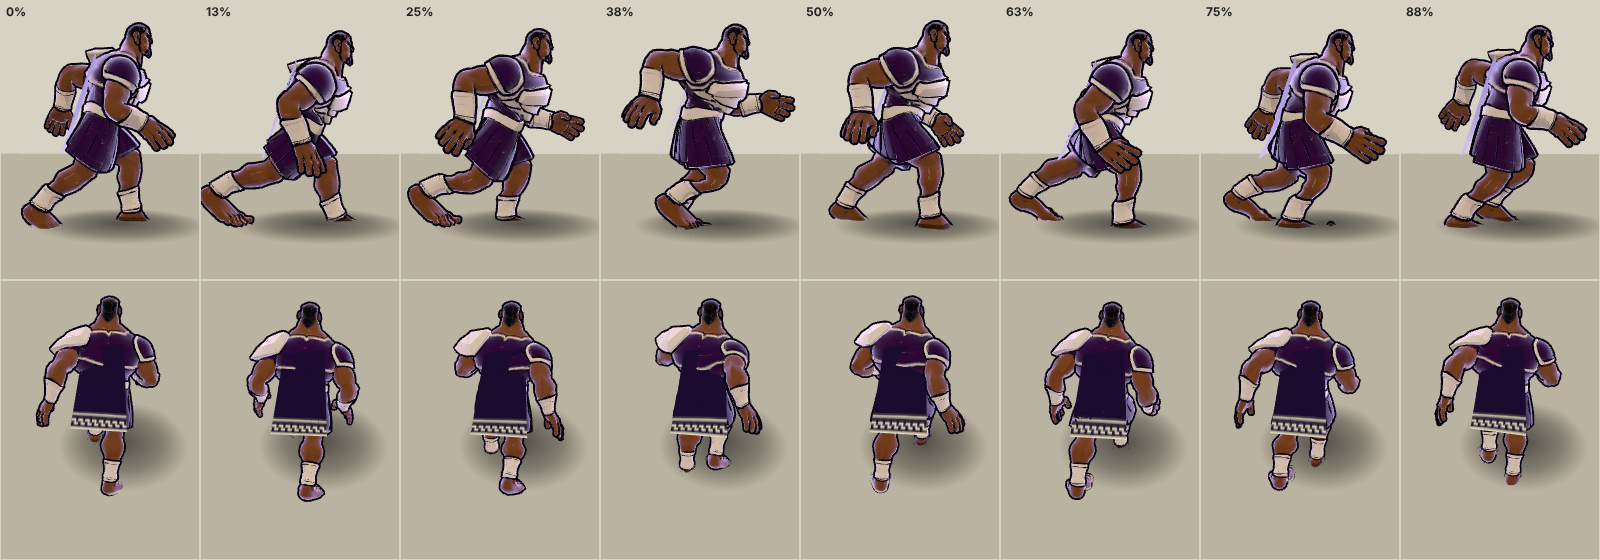
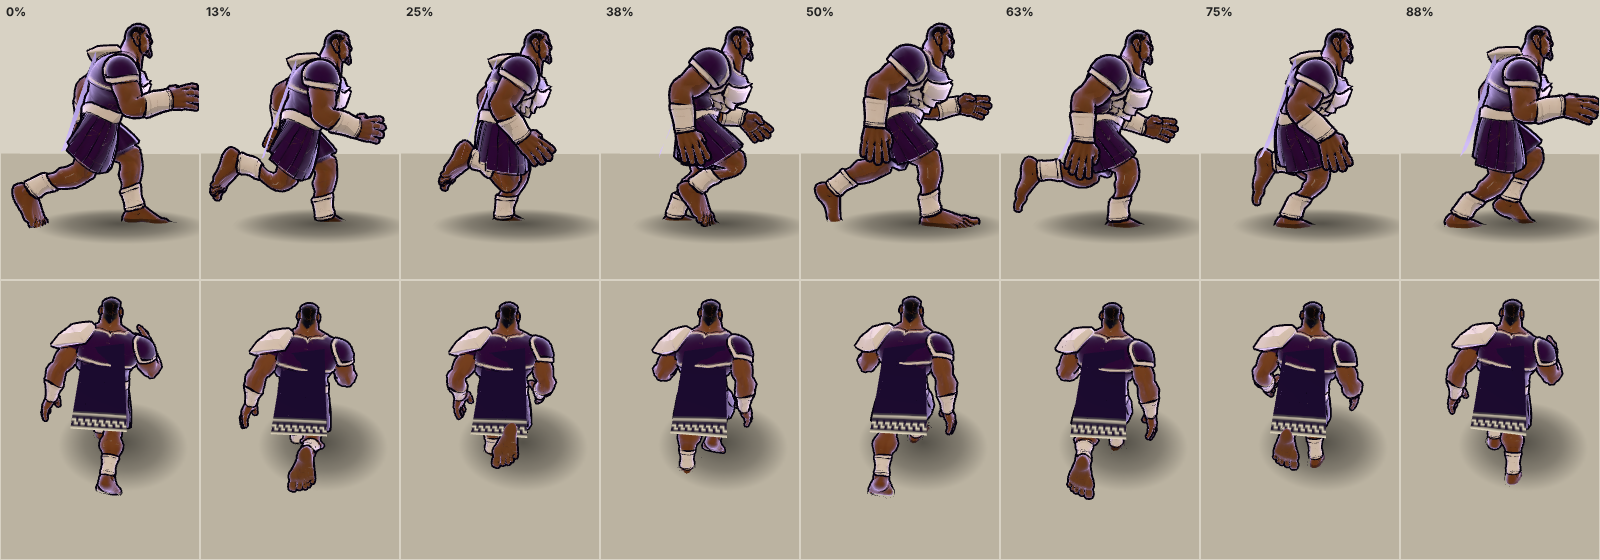
Authored run animations per gear (Meshy catalog), feet locked to the gait
Jog plays Run 2, Stride the Lean Forward Sprint, Rampage the Male Head-down
Charge (12 credits). Whole body on the tier's clip, crossfaded on tier
changes and time-locked to the stride; hips at the gait's height; legs IK
onto the gait's plant spot while planted (clip foot arc in swing), so feet
never slide. Replaces the hybrid. Clip comparison tool.

Claude-Session: https://claude.ai/code/session_01U6CEtzBnsd5sKqjjyRSivB

diff --git a/src/render/giantModel.ts b/src/render/giantModel.ts
@@ -4,16 +4,17 @@ import type { GaitFrame, Vec3 } from '../anim/gait';
 import { TUNING } from '../tuning';
 import { PALETTE } from './palette';
 import { rimToonMap } from './toon';
-import runClip from '../assets/giant/run.json';
+import runClips from '../assets/giant/runs.json';
 
 /**
  * The Meshy giant (Mike's character sheet → image edit without the cape → image-to-3D →
  * rigging). A presentation skin over the greybox rig: GiantView still computes every pose
- * (gait IK legs, lean, twist, flex, steady head); the skinned legs and hips follow it, so feel
- * and the pinned feet are untouched. The upper body (spine sway, shoulders, arm pump) plays
- * Meshy's run clip, time-locked to the stride so the arms always swing against the legs, with
- * the tier's lean and arm amplitude on top. The Pose, the Shoulder Check and Leap take the arms
- * back to the procedural pose. Until (or unless) it loads, the greybox shows.
+ * (gait IK, hip height and bound, steady head, flex); the model plays an authored Meshy run clip
+ * per tier (Jog "Run 2", Stride "Lean Forward Sprint", Rampage "Male Head-down Charge"),
+ * crossfaded on tier changes and time-locked to the stride. Feet: while the gait has a foot
+ * planted, that leg blends into IK onto the gait's plant spot, so nothing slides; in swing the
+ * clip's foot arc leads. The Pose, the Shoulder Check and Leap take the arms back to the
+ * procedural pose. Until (or unless) it loads, the greybox shows.
  */
 
 /** What the greybox pose gives this frame (world space). */
@@ -33,6 +34,8 @@ export interface GreyboxPose {
   /** The greybox torso's forward lean and bank (rad), without its stride twist (the clip has its own sway). */
   lean: number;
   bank: number;
+  /** Frame time (s), for the crossfades and plant blends. */
+  dt: number;
   /** Pose, Shoulder Check or Leap: arms follow the procedural pose instead of the clip. */
   armsProcedural: boolean;
 }
@@ -63,9 +66,10 @@ export class GiantModel {
   private readonly face = new THREE.Quaternion().setFromAxisAngle(new THREE.Vector3(0, 1, 0), Math.PI / 2);
   private q = [new THREE.Quaternion(), new THREE.Quaternion(), new THREE.Quaternion(), new THREE.Quaternion()];
   private mixer: THREE.AnimationMixer | null = null;
-  private clipLen = 1;
-  /** Clip time at which its left foot is down; stride phase at the gait's left plant. */
-  private clipLeftPlant = 0;
+  /** One run clip per tier: its action, length, and the clip time at which its left foot is down. */
+  private runs: { action: THREE.AnimationAction; len: number; leftPlant: number; weight: number }[] = [];
+  /** Per model leg (Left, Right): how far the leg is blended onto the gait's planted foot. */
+  private plantW = [0, 0];
   private gaitLeftPhase = 0;
   private leftWasPlanted = false;
   private armBlend = 0;
@@ -132,20 +136,29 @@ export class GiantModel {
     const mid = wp(b('LeftUpLeg')).add(wp(b('RightUpLeg'))).multiplyScalar(0.5);
     this.hipsOffset.copy(wp(b('Hips'))).sub(mid);
 
-    // Meshy's run clip (rotations only): find the moment its left foot is lowest, to lock it to the gait.
-    const clip = THREE.AnimationClip.parse(runClip as unknown as THREE.AnimationClipJSON);
+    // Authored run clips (rotations only), one per tier: find each one's left plant (lowest left foot)
+    // so it can be locked to the gait.
     this.mixer = new THREE.AnimationMixer(scene);
-    this.mixer.clipAction(clip).play();
-    this.clipLen = clip.duration;
-    let low = Infinity;
-    for (let i = 0; i < 48; i++) {
-      const t = (clip.duration * i) / 48;
-      this.mixer.setTime(t);
-      scene.updateMatrixWorld(true);
-      const y = wp(b('LeftFoot')).y;
-      if (y < low) {
-        low = y;
-        this.clipLeftPlant = t;
+    const clipJson = runClips as unknown as Record<string, THREE.AnimationClipJSON>;
+    for (const key of ['jog', 'stride', 'rampage']) {
+      const clip = THREE.AnimationClip.parse(clipJson[key]);
+      const action = this.mixer.clipAction(clip);
+      action.play();
+      this.runs.push({ action, len: clip.duration, leftPlant: 0, weight: 0 });
+    }
+    for (const run of this.runs) {
+      for (const r of this.runs) r.action.setEffectiveWeight(r === run ? 1 : 0);
+      let low = Infinity;
+      for (let i = 0; i < 48; i++) {
+        const t = (run.len * i) / 48;
+        run.action.time = t;
+        this.mixer.update(0);
+        scene.updateMatrixWorld(true);
+        const y = wp(b('LeftFoot')).y;
+        if (y < low) {
+          low = y;
+          run.leftPlant = t;
+        }
       }
     }
     for (const [bone, r] of this.rest) bone.quaternion.copy(r.local);
@@ -202,18 +215,10 @@ export class GiantModel {
     this.setWorld(bone, delta.multiply(restWorld));
   }
 
-  /** Greybox pose relative to the root, applied to a bone's rest world rotation. */
-  private follow(bone: THREE.Bone, obj: THREE.Object3D, rootInv: THREE.Quaternion, rootQ: THREE.Quaternion, amount = 1) {
-    const rel = obj.getWorldQuaternion(new THREE.Quaternion()).premultiply(rootInv);
-    if (amount < 1) rel.slerp(new THREE.Quaternion(), 1 - amount);
-    this.setWorld(bone, rel.premultiply(rootQ).multiply(this.rest.get(bone)!.world));
-  }
-
   update(g: GreyboxPose) {
     if (!this.loaded) return;
     const b = (n: string) => this.bones.get(n)!;
     const rootQ = g.root.getWorldQuaternion(new THREE.Quaternion());
-    const rootInv = rootQ.clone().invert();
     const right = new THREE.Vector3(0, 0, 1).applyQuaternion(rootQ);
     this.group.position.copy(g.root.getWorldPosition(new THREE.Vector3()));
     this.group.quaternion.copy(rootQ).multiply(this.face);
@@ -221,70 +226,60 @@ export class GiantModel {
 
     const L = g.gait.legs;
     const M = TUNING.giantModel;
-    // Lock the clip to the stride: the gait's left plant lines up with the clip's.
+    // Lock the clips to the stride: the gait's left plant lines up with each clip's.
     const leftIdx = Math.sign(this.p[1].copy(v(L[0].hip)).sub(this.group.position).dot(right)) < 0 ? 0 : 1;
     const leftPlanted = L[leftIdx].planted;
     if (leftPlanted && !this.leftWasPlanted) this.gaitLeftPhase = ((g.stepPos % 2) + 2) % 2;
     this.leftWasPlanted = leftPlanted;
     const phase = ((((g.stepPos - this.gaitLeftPhase) % 2) + 2) % 2) / 2;
-    this.mixer!.setTime(this.clipLeftPlant + phase * this.clipLen);
+    const fade = Math.min(1, g.dt / M.clipFade);
+    this.runs.forEach((r, i) => {
+      r.weight += ((i === g.tier ? 1 : 0) - r.weight) * fade;
+      r.action.setEffectiveWeight(r.weight);
+      r.action.time = (r.leftPlant + phase * r.len) % r.len;
+    });
+    this.mixer!.update(0);
     this.armBlend += ((g.armsProcedural ? 1 : 0) - this.armBlend) * 0.25;
 
-    // Hips: at the gait's hip midpoint, turned like the greybox pelvis.
+    // Hips: at the gait's hip height (bound, plant drop), turned by the clip, banked into lane changes.
     const mid = v(L[0].hip).add(v(L[1].hip, this.p[0])).multiplyScalar(0.5);
-    const hipsRel = g.hips.getWorldQuaternion(new THREE.Quaternion()).premultiply(rootInv);
-    const hips = b('Hips');
-    // The clip's own pelvis motion (relative to rest), kept on top of the greybox pelvis: the clip's
-    // spine is authored against it, so dropping it makes the torso rock.
-    const clipHips = this.rest.get(hips)!.local.clone().invert().multiply(hips.quaternion);
     mid.y += M.hipRaise;
-    hips.position.copy(hips.parent!.worldToLocal(mid.clone().add(this.hipsOffset.clone().applyQuaternion(rootQ).applyQuaternion(hipsRel))));
-    this.follow(hips, g.hips, rootInv, rootQ);
-    this.setWorld(hips, hips.getWorldQuaternion(new THREE.Quaternion()).multiply(clipHips));
-    // Spine: the clip's sway, plus the greybox torso's lean, bank and twist relative to the pelvis.
-    // The chest holds the run's lean: the clip's chest pitches with every arm swing (and its upper back
-    // sits ~20° more upright than its lower back), which read as him standing up mid-stride. Measure the
-    // chest's forward pitch and rotate the whole upper body (at the lower spine) so it lands on the lean;
-    // the clip keeps its sway, roll and arms. Bank on top.
-    // Meshy names the spine top-down: Spine02 sits on the hips, Spine is the chest (neck and shoulders hang off it).
-    const spine = b('Spine02');
-    const chest = b('Spine');
-    spine.updateMatrixWorld(true);
-    const up = new THREE.Vector3(0, 1, 0).applyQuaternion(chest.getWorldQuaternion(new THREE.Quaternion())).applyQuaternion(rootInv);
-    const chestPitch = Math.atan2(up.x, up.y); // + = leaning forward (+X)
-    const want = g.lean * M.clipLean;
-    const delta = new THREE.Quaternion().setFromEuler(new THREE.Euler(g.bank, 0, -(want - chestPitch), 'XYZ'));
-    this.setWorld(spine, delta.premultiply(rootQ).multiply(rootInv).multiply(spine.getWorldQuaternion(new THREE.Quaternion())));
-    this.follow(b('Head'), g.head, rootInv, rootQ);
-    // Clip arms, swing scaled per tier (smaller at Jog, bigger at Rampage).
-    const amp = M.armAmp[g.tier];
-    for (const c of this.arms) for (const bone of [c.upper, c.lower]) {
-      const r = this.rest.get(bone)!;
-      bone.quaternion.copy(r.local.clone().slerp(bone.quaternion, amp));
-    }
-    b('Spine02').updateMatrixWorld(true);
+    const hips = b('Hips');
+    hips.position.copy(hips.parent!.worldToLocal(mid.clone().add(this.hipsOffset.clone().applyQuaternion(rootQ))));
+    hips.updateMatrixWorld(true);
+    const bank = new THREE.Quaternion().setFromAxisAngle(new THREE.Vector3(1, 0, 0).applyQuaternion(rootQ), g.bank);
+    this.setWorld(hips, hips.getWorldQuaternion(new THREE.Quaternion()).premultiply(bank));
 
-    // Legs: two-bone IK from his own hip to the gait's foot (so planted feet stay exactly where the
-    // gait put them), knee bending forward; foot flat, toes down in swing.
+    // Legs: two-bone IK from his hip to a foot target. Planted (by the gait), the target is the gait's
+    // plant spot and the foot lies flat, so nothing slides; in swing it's the clip's own foot arc.
+    // Knees bend the way the clip bends them.
     const fwd = new THREE.Vector3(1, 0, 0).applyQuaternion(rootQ);
-    for (const c of this.legs) {
+    const plantFade = Math.min(1, g.dt / M.plantBlend);
+    this.legs.forEach((c, li) => {
       const gi = Math.sign(this.p[1].copy(v(L[0].hip)).sub(this.group.position).dot(right)) === c.side ? 0 : 1;
       const leg = L[gi];
+      this.plantW[li] += ((leg.planted ? 1 : 0) - this.plantW[li]) * plantFade;
+      const w = this.plantW[li];
       const hip = c.upper.getWorldPosition(new THREE.Vector3());
-      const foot = v(leg.foot);
+      const clipKnee = c.lower.getWorldPosition(new THREE.Vector3());
+      const clipFoot = c.end.getWorldPosition(new THREE.Vector3());
+      clipFoot.y = Math.max(clipFoot.y, M.ankleHeight);
+      const clipFootQ = c.end.getWorldQuaternion(new THREE.Quaternion());
+      const target = clipFoot.lerp(v(leg.foot).setY(Math.max(leg.foot.y, M.ankleHeight)), w);
       const a = this.segLen.get(c.upper)!, bl = this.segLen.get(c.lower)!;
-      const toFoot = foot.clone().sub(hip);
+      const toFoot = target.clone().sub(hip);
       const d = Math.min(toFoot.length(), (a + bl) * 0.999);
       const u = toFoot.normalize();
       const cosA = (a * a + d * d - bl * bl) / (2 * a * d);
       const sinA = Math.sqrt(Math.max(0, 1 - cosA * cosA));
-      const n = fwd.clone().addScaledVector(u, -fwd.dot(u)).normalize();
+      const pole = clipKnee.sub(hip).lerp(fwd, 0.3);
+      const n = pole.addScaledVector(u, -pole.dot(u)).normalize();
       const knee = hip.clone().addScaledVector(u, a * cosA).addScaledVector(n, a * sinA);
       this.aim(c.upper, knee.clone().sub(hip));
       this.aim(c.lower, hip.addScaledVector(u, d).sub(knee));
-      const pitch = new THREE.Quaternion().setFromAxisAngle(new THREE.Vector3(0, 0, 1), -g.footPitch[gi]);
-      this.setWorld(c.end, pitch.premultiply(rootQ).multiply(this.rest.get(c.end)!.world));
-    }
+      const flat = new THREE.Quaternion().copy(rootQ).multiply(this.rest.get(c.end)!.world);
+      this.setWorld(c.end, clipFootQ.slerp(flat, w));
+    });
     // Pose / Shoulder Check / Leap: arms along the greybox arm (upper arm to the elbow, forearm to the fist).
     if (this.armBlend < 0.02) return;
     for (const c of this.arms) {

diff --git a/tools/modelsheet/clips.ts b/tools/modelsheet/clips.ts
@@ -1,0 +1,46 @@
+/**
+ * Dev only: compare candidate run clips on the giant, eight moments of one cycle each, side view.
+ * /tools/modelsheet/clips.html?f=<glb>,<glb>  (GLBs as served by the dev server, e.g. /meshy_output/...)
+ */
+import * as THREE from 'three';
+import { GLTFLoader } from 'three/examples/jsm/loaders/GLTFLoader.js';
+const files = (new URLSearchParams(location.search).get('f') ?? '').split(',').filter(Boolean);
+const N = 8, W = 1600, rowH = 230, H = rowH * files.length, cw = W / N;
+const renderer = new THREE.WebGLRenderer({ canvas: document.getElementById('c') as HTMLCanvasElement, antialias: true, preserveDrawingBuffer: true });
+renderer.setSize(W, H);
+renderer.setScissorTest(true);
+const labels = document.getElementById('l')!;
+const info: string[] = [];
+for (let r = 0; r < files.length; r++) {
+  const scene = new THREE.Scene();
+  scene.background = new THREE.Color(r % 2 ? 0xd2ccbe : 0xd8d2c4);
+  scene.add(new THREE.HemisphereLight(0xffffff, 0x8a8070, 2));
+  const gltf = await new GLTFLoader().loadAsync(files[r]);
+  const root = gltf.scene;
+  root.rotation.y = Math.PI / 2;
+  scene.add(root);
+  const clip = gltf.animations[0];
+  const mixer = new THREE.AnimationMixer(root);
+  mixer.clipAction(clip).play();
+  const hipsTrack = clip.tracks.find((t) => t.name.startsWith('Hips') && t.name.endsWith('.position'));
+  info.push(`${files[r].split('/').pop()}: ${clip.duration.toFixed(3)}s, hips position track: ${hipsTrack ? 'yes' : 'no'}`);
+  for (let i = 0; i < N; i++) {
+    mixer.setTime((clip.duration * i) / N);
+    root.updateMatrixWorld(true);
+    const hips = root.getObjectByName('Hips')!.getWorldPosition(new THREE.Vector3());
+    const cam = new THREE.PerspectiveCamera(30, cw / rowH, 0.01, 200);
+    cam.position.set(hips.x + 0.3, 1.9, hips.z + 9);
+    cam.lookAt(hips.x, 1.5, hips.z);
+    const px = i * cw, py = H - (r + 1) * rowH;
+    renderer.setViewport(px, py, cw, rowH);
+    renderer.setScissor(px + 1, py + 1, cw - 2, rowH - 2);
+    renderer.render(scene, cam);
+  }
+  const s = document.createElement('span');
+  s.style.left = '6px';
+  s.style.top = `${r * rowH + 4}px`;
+  s.textContent = files[r].split('/').pop()!;
+  labels.append(s);
+}
+console.log(info.join('\n'));
+(window as unknown as { __SHEET: boolean }).__SHEET = true;

diff --git a/src/tuning.ts b/src/tuning.ts
@@ -126,7 +126,12 @@ export const TUNING = {
     braidFollow: 0.05,
     /** Share of the cape's length that is the cream Greek-key hem (Mike's sheet). */
     capeHemShare: 0.2,
-    /** Meshy model, upper body on Meshy's run clip: share of the greybox lean added on top of the clip's own, and the arm swing per tier (1 = the clip's). */
+    /** Meshy model on authored run clips (Mike: the hybrid "still reads as jank"): crossfade between tiers' clips (s), and how fast a leg blends onto / off the gait's planted foot (s). */
+    clipFade: 0.3,
+    plantBlend: 0.06,
+    /** Ankle bone height above the road (m): feet never sink into it. */
+    ankleHeight: 0.12,
+    /** Unused since the authored clips (kept for the greybox-driven arm fallback). */
     clipLean: 1,
     /** His hips ride this much above the gait's (m): straighter legs on a realistic body; the IK still lands the feet. */
     hipRaise: 0.12,

diff --git a/tools/modelsheet/clips.html b/tools/modelsheet/clips.html
@@ -1,0 +1,4 @@
+<!doctype html>
+<html><head><meta charset="utf-8"><title>Run clip comparison</title>
+<style>html,body{margin:0;background:#d8d2c4;font:12px system-ui}canvas{display:block}#l{position:absolute;inset:0;pointer-events:none}#l span{position:absolute;font-weight:700}</style></head>
+<body><canvas id="c"></canvas><div id="l"></div><script type="module" src="./clips.ts"></script></body></html>

diff --git a/src/render/giant.ts b/src/render/giant.ts
@@ -441,6 +441,7 @@ export class GiantView {
       stepPos: p.stepPos,
       tier: p.tier,
       armsProcedural: (p.pose ?? 0) > 0 || sh > 0 || (p.leap ?? 0) > 0,
+      dt,
       lean: this.lean * (1 - (p.pose ?? 0) * 0.8),
       bank: this.bank,
     });

diff --git a/DECISIONS.md b/DECISIONS.md
@@ -4,6 +4,7 @@ Build-time decisions, working defaults for open questions (GDD §46), and deviat
 
 | Date | Decision | Why | Revisit |
 |---|---|---|---|
+| 2026-11-14 | **Authored run animations from Meshy's catalog** (Mike: the hybrid "still reads as jank", OK'd spending). Four clips at 3 credits each (12; 748 left), compared frame by frame (`tools/clips.mjs`): **Jog** "Run 2" (#14), **Stride** "Lean Forward Sprint" (#509), **Rampage** "Male Head-down Charge" (#512); "Standard Forward Charge" (#510) and the free rig clip were too upright. The whole body now plays the tier's clip (rotations only, 65 KB `runs.json`), crossfaded over 0.3s on tier changes and time-locked to the stride (each clip's left plant aligned to the gait's). The hips sit at the gait's height (bound, plant drop) and bank into lane changes. **Legs:** two-bone IK from his hip to a foot target that is the gait's plant spot while that foot is planted (blended in 0.06s, foot flat) and the clip's own foot arc in swing, knees bending the clip's way. So planted feet never slide and the cadence stays the gait's. Pose, Shoulder Check and Leap still take the arms procedural. The earlier hybrid (clip upper body on gait legs, locked chest lean) is gone. | Mike's playtest. | Mike's playtest |
 | 2026-11-14 | **Meshy giant's run de-janked: a hybrid of the gait and Meshy's run clip** (Mike: "looks a bit jank"). Diagnosed with a stride strip (`tools/strip.mjs`, eight moments × side/chase). Causes: the greybox arm pump on longer arms threw open hands overhead; legs copied greybox knee points, giving a deep squat; the greybox stride twist on a leaning spine swung the lean sideways; and **Meshy names the spine top-down** (Spine02 sits on the hips, Spine is the chest), so the first pass spread the lean upside-down. Now: **legs and hips** stay on the gait (two-bone IK from his own hips to the gait's planted feet, knees forward, hips 0.12m higher), so feet stay pinned and the stride and bound are unchanged. **The upper body plays Meshy's run clip** (rotations only, 22 KB `run.json`), time-locked to the stride (the clip's left plant aligned to the gait's), with arm swing per tier ×0.8 / ×1.05 / ×1.3. The **chest is held at the tier's lean** every frame (20° / 30° / 40°) while the clip keeps its sway and roll. Pose, Shoulder Check and Leap blend the arms back to the procedural pose. **Previews:** `vercel.json` `ignoreCommand` skips every build not on the production branch `claude/new-session-cxrh92` (Mike: B), since GITHUB_TOKEN is production-only. (The first version tested `VERCEL_ENV`, which isn't "production" at the ignore step, and cancelled production too.) | Mike's playtest. | Mike's playtest |
 | 2026-11-14 | **Onboarding and the upgrade economy made visible** (Mike: weak onboarding; "earning for upgrades feels weak and unexplained"). The economy itself is unchanged: budget = banked score = viewers × gear multiplier (×1 / ×1.5 / ×2) every second, and spending never lowers the score. What changed is that it shows. **Producer tips** (`src/tips.ts`): nine one-line notes, each shown once, the first time it matters (shift up by holding top speed; Stride / Rampage and what they smash; why you bounced; bulldozer ahead; close call; "we're losing them"; exit open; where the budget comes from), at most one at a time, 4.5s each, 3s apart. Settings → Producer Tips (turning them back on replays them). **Full Broadcast HUD:** a live BUDGET counter under the viewers meter, with the gear multiplier. **Recap:** "Added to budget +N" and how it's earned. **Meeting:** one line of how it works; pitches you can't afford say "Need N more". **Debug overlay now defaults Off** (it defaulted On for every player; older saves migrate to Off unless the player turned it on). | Mike's playtest. | Mike's playtest: are prices right once earning is visible |
 | 2026-11-14 | **The Meshy giant is in** (Mike: "Meshy please"). Pipeline from his brown-skin sheet: image edit, same character without the cape, A-pose (12 credits) → image-to-3D, smart topology, 15.8k triangles, 2K base colour, no PBR (15) → rigging, 24 bones, 3.6m (5). **32 credits** total; 760 left. Meshy's run clip is **not** used: `GiantModel` (`src/render/giantModel.ts`) aims the skinned bones along the greybox rig every frame. Legs follow the gait IK (scaled so his legs match it, so planted feet stay pinned), the spine and head follow the lean, bank, twist and steady head, and the arms follow the pump, flex and shoulder check. The greybox meshes hide once it loads and stay as the fallback (and with `?greybox=1`). The cape stays procedural, clasped on his **left** under the pauldron as on the sheet, now with a cream Greek-key hem (canvas texture). Toon shading over the Meshy texture with the night rim; an ink hull follows the skin (sized in skinning units, 69 per metre). **His texture is multiplied by 0.75** so he holds ≥3:1 in the silhouette test (at ×1 he failed 6 of 18 angle/look combinations; §23 the giant is the darkest thing). The model is `src/assets/giant/giant.glb` (3.6 MB); Meshy working files are in `meshy_output/` (gitignored). | Mike's sheet. | Mike's playtest (arm pump height, darkening, cape fit) |

diff --git a/CLAUDE.md b/CLAUDE.md
@@ -40,6 +40,7 @@ tools/shots-phase2.mjs  Phase 2 evidence: tells, zones, exit, recap
 tools/shots-phase3.mjs  Phase 3 evidence: each ability mid-action
 tools/modelsheet.mjs    giant turnaround (side / Chase High / top down × tiers), dev page in tools/modelsheet/
 tools/strip.mjs         stride strip: one tier, eight moments of a stride (side / chase); GREYBOX=1 for the old rig
+tools/clips.mjs         compare candidate run clips (GLBs) on the giant, eight moments each
 tools/shots-model.mjs   model pass evidence: tiers in game, cape on a lane change, PS4 HUD
 tools/shots-title.mjs   title screen (desktop, phone, glide)
 tools/filmstrip.mjs     slow-motion strip of an impact (smash-heavy, bounce, bounce-immovable)
